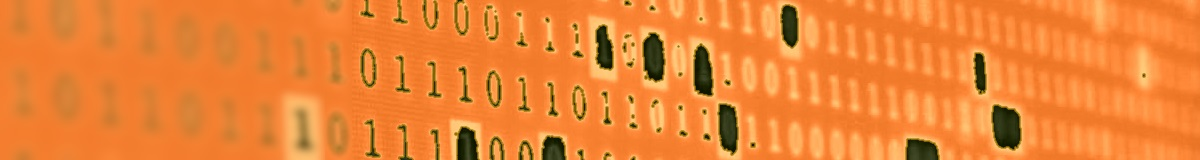
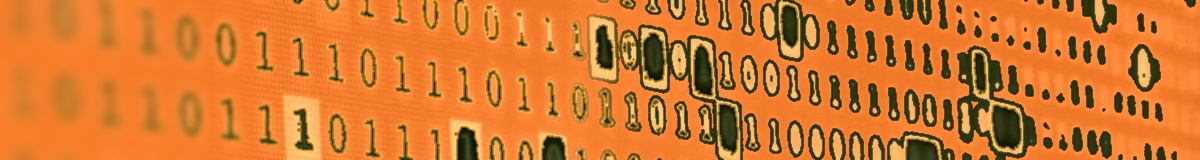
add background texture, improve jumbotron image

diff --git a/index.html b/index.html
@@ -128,28 +128,30 @@
 				tłumacz pisemny (polsko-angielski, między innymi dla firmy Techland). W trakcie studiów wyjeżdżałem do
 				Irlandii do pracy dorywczej. Po uzyskaniu tytułu praca ośrodku dla trudnej młodzieży za 1200pln nie
 				wydała się spełnieniem marzeń i wyruszyłem w świat. Spędziłem niemal 10 lat w Irlandii Północnej
-				(głównie w hrabstwie Londonderry). Początkowo pracowałem na budowach i w fabrykach (m.in. Seagate).
-				Potem ktoś się zorientował, że mój angielski jest obiecujący (miałem certyfikat CAE i doświadczenie w
-				tłumaczeniach) więc ostatecznie skończyłem po odpowiednich szkoleniach skończyłem jako tłumacz sesyjny.
-				Z racji płci i dyspozycyjności większość moich zleceń była w ramach wymiaru sprawiedliwości. Zjeździłem
-				cały kraj i spędziłem ponad 2500 godzin pracując na praktycznie każdej sali sądowej, każdym posterunku
-				czy więzieniu Irlandii Północnej. Oprócz tego zdarzały się zlecenia związane z urzędami, służbą zdrowia,
-				szkolnictwem czy służbami społecznymi.</p>
+				(głównie w hrabstwie Londonderry). Początkowo pracowałem na budowach i w fabrykach (m.in. na polerni
+				talerzy do dysków twardych firmy Seagate). Potem ktoś się zorientował, że mój angielski jest obiecujący
+				(miałem certyfikat CAE i doświadczenie w tłumaczeniach) więc ostatecznie po odpowiednich szkoleniach
+				skończyłem jako tłumacz sesyjny. Z racji płci i dyspozycyjności większość moich zleceń miała miejsce
+				w ramach wymiaru sprawiedliwości. Zjeździłem cały kraj i mam na swoim koncie ponad 2500 godzin sesji
+				tłumaczeniowych na praktycznie każdej sali sądowej, każdym posterunku czy więzieniu Irlandii Północnej.
+				Oprócz tego zdarzały się zlecenia związane z urzędami, służbą zdrowia, szkolnictwem, służbami
+				socjalnymi lub dla firm prywatnych.</p>
 
-			<p>Nigdy nie zamierzałem zostawać w Irlandii Północnej na stałe i ostatecznie udało mi się wrócić 3 lata
-				temu. Miałem nadzieję na kontynuowanie kariery w tłumaczeniach, ale zorientowałem się, opcje są dość
+			<p>Nigdy nie chciałem zostawać w Irlandii Północnej na stałe i udało mi się wrócić w roku 2015. temu. Miałem
+				nadzieję na kontynuowanie kariery w tłumaczeniach, niestety zorientowałem się, że opcje są dość
 				ograniczone. Musiałbym zostać tłumaczem przysięgłym i spędzić resztę moich dni tłukąc od sztampy opinie
-				medyczne czy akty małżeństwa, jedynie od święta mając szansę na cokolwiek interesującego. Zakładając, że
-				przetrwał bym wstępny etap niewolniczje pracy po kosztach dla agencji tłumaczeniowych przed otwarciem
-				własnego biura. Coś we mnie zastrajkowało i zacząłem zastanawiać się nad innymi opcjami. Mój wewnętrzny
-				nerd nigdy nie skapitulował, więc kiedy sorientowałem się, że zapotrzebowania w branży IT jest duże,
-				zdecydowałem się na kurs back-endu (Java Web) w Coderslabie. Wciąż mając pracę jako tłumacz telefoniczny
-				w niewielkim wymiarze godzin spokojnie poukładałem swoje sprawy, poszerzyłem trochę swoją wiedzę tam,
-				gdzie czułem, że najbardzie tego wymagała i jestem teraz gotowy zacząć.</p>
+				medyczne czy akty małżeństwa, jedynie od święta mając szansę na cokolwiek interesującego, wszystko to na
+				bardzo konkurencyjnym rynku z mocno już zaniżonymi stawkami. Oczywiście zakładając, że przetrwałbym
+				wstępny etap niewolniczej pracy po kosztach dla agencji tłumaczeniowych przed otwarciem własnego biura.
+				Coś we mnie zastrajkowało i zacząłem zastanawiać się nad innymi opcjami. Mój wewnętrzny nerd nigdy nie
+				skapitulował, więc kiedy sorientowałem się, że zapotrzebowania w branży IT jest duże - zdecydowałem się
+				na kurs back-endu (Java Web) w Coderslabie. Wciąż mając pracę jako tłumacz telefoniczny w niewielkim
+				wymiarze godzin spokojnie poukładałem swoje sprawy, poszerzyłem trochę swoją wiedzę tam, gdzie czułem,
+				że najbardziej tego wymagała i jestem teraz gotowy zacząć.</p>
 
 			<p>Prywatnie lubię dobre kino, dobrą książkę (bardziej kiedyś) i dobry podcast (bardziej teraz). Lubię
 				spędzać czas z rodziną i starymi przyjaciółmi. Lubię poznawać nowych. Lubię podnosić i odkładać ciężkie
-				przedmioty i lubię się bić. Mam kota. To dobry kot.</p>
+				przedmioty i lubię się bić. Mam kota.</p>
 
 			<div class="about-links">
 				<span class="dropup">
@@ -871,31 +873,21 @@
 			<!--Section 6-->
 			<div id="Section6">
 				<h1>Programming School</h1>
-				<p>Sriracha biodiesel taxidermy organic post-ironic, Intelligentsia salvia mustache 90's code editing
-					brunch. Butcher polaroid VHS art party, hashtag Brooklyn deep v PBR narwhal sustainable mixtape swag
-					wolf squid tote bag. Tote bag cronut semiotics,
-					raw denim deep v taxidermy messenger bag. Tofu YOLO Etsy, direct trade ethical Odd Future jean
-					shorts paleo. Forage Shoreditch tousled aesthetic irony, street art organic Bushwick artisan cliche
-					semiotics ugh synth chillwave meditation.
-					Shabby chic lomo plaid vinyl chambray Vice. Vice sustainable cardigan, Williamsburg master cleanse
-					hella DIY 90's blog.</p>
+				<p>Ten projekt napisałem w ramach bootcampu aby nauczyć się współpracy między aplikacją Java Web a bazą
+					danych MySQL za pośrednictwem interfejsu JDBC. Jest to aplikacja zarządzania szkołą programowania,
+					gdzie poszczególni użytkownicy należą do grup i mają zadania, do których mogą dodawać rozwiązania.
+					Zależności z zewnętrzymi bibliotekami są dogrywane bezpośrednio do projektu, bez użycia Mavena.</p>
 
-				<p>Ethical Kickstarter PBR asymmetrical lo-fi. Dreamcatcher street art Carles, stumptown gluten-free
-					Kickstarter artisan Wes Anderson wolf pug. Godard sustainable you probably haven't heard of them,
-					vegan farm-to-table Williamsburg slow-carb
-					readymade disrupt deep v. Meggings seitan Wes Anderson semiotics, cliche American Apparel whatever.
-					Helvetica cray plaid, vegan brunch Banksy leggings +1 direct trade. Wayfarers codeply PBR selfies.
-					Banh mi McSweeney's Shoreditch selfies,
-					forage fingerstache food truck occupy YOLO Pitchfork fixie iPhone fanny pack art party Portland.</p>
+				<p>Aplikacja posiada stronę tytułową, na której wyświetlonych jest kilka ostatnich dodanych do bazy
+					rozwiązań rozwiązań. Jest dostępny podgląd części danych użytkownika, listy grup, zadań i rozwiązań.
+					Oprócz tego dostępny jest panel administratora, przy użyciu którego można wyświetlić, edytować i
+					kasować wszystkie możliwe dane.</p>
 
-				<p>Sriracha biodiesel taxidermy organic post-ironic, Intelligentsia salvia mustache 90's code editing
-					brunch. Butcher polaroid VHS art party, hashtag Brooklyn deep v PBR narwhal sustainable mixtape swag
-					wolf squid tote bag. Tote bag cronut semiotics,
-					raw denim deep v taxidermy messenger bag. Tofu YOLO Etsy, direct trade ethical Odd Future jean
-					shorts paleo. Forage Shoreditch tousled aesthetic irony, street art organic Bushwick artisan cliche
-					semiotics ugh synth chillwave meditation.
-					Shabby chic lomo plaid vinyl chambray Vice. Vice sustainable cardigan, Williamsburg master cleanse
-					hella DIY 90's blog.</p>
+				<p> - użyłem osobnych klas do reprezentacji modelu struktury danych, klas DAO oraz kontrolerów
+					- interfejs oparty jest o serwlety oraz strony JSP
+					- na stronach JSP są użyte wyrażenia JSTL oraz EL
+					- hasła użytkowników są haszowane przy pomocy biblioteki JBCrypt
+				</p>
 
 				<p>Sriracha biodiesel taxidermy organic post-ironic, Intelligentsia salvia mustache 90's code editing
 					brunch. Butcher polaroid VHS art party, hashtag Brooklyn deep v PBR narwhal sustainable mixtape swag

diff --git a/css/main.css b/css/main.css
@@ -2,7 +2,7 @@
 body {
 	font-size: 25%;
 	font-family: 'Shadows Into Light', cursive;
-	background-color: #E9E49D;
+	background: #E9E49D url("../images/background.png") repeat;
 }
 
 a {
@@ -96,7 +96,7 @@ button:focus {
 /* Position the content inside the overlay */
 .overlay-content {
 	position: relative;
-	top: 10%; /* 15% from the top */
+	top: 5%; /* 5% from the top */
 	width: 100%; /* 100% width */
 	text-align: center; /* Centered text/links */
 	margin-top: 30px; /* 30px top margin to avoid conflict with the close button on smaller screens */
@@ -148,7 +148,7 @@ button:focus {
 @media screen and (min-width: 1201px) {
 	.overlay p {
 		padding: 3px;
-		font-size: 1.5vw;
+		font-size: 1.25vw;
 	}
 }
 
@@ -244,6 +244,11 @@ button:focus {
 	font-size: 5em;
 	z-index: 1;
 }
+
+/*.stick {*/
+	/*position: sticky;*/
+	/*top: 0;*/
+/*}*/
 
 .sidenav-text {
 	text-decoration: none;
